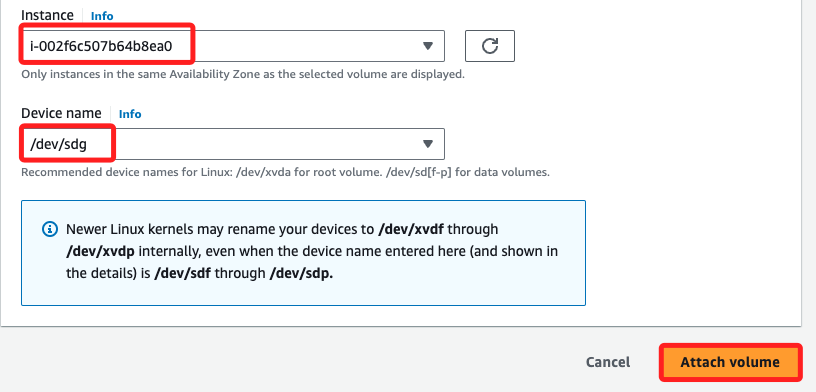
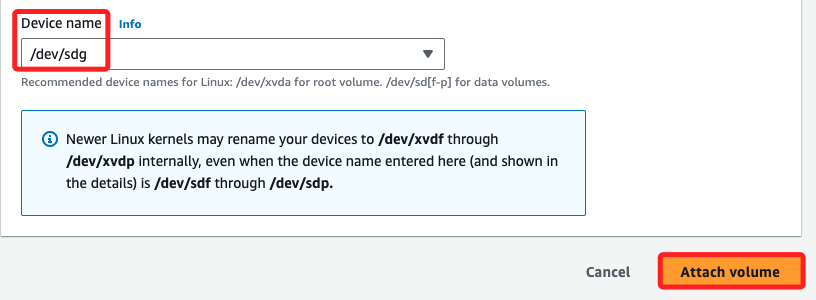
Commit on 2024-09-12 02:36:13

diff --git a/01_課程筆記/20240905/01_0905/04_EBS/01_Lab 4.md b/01_課程筆記/20240905/01_0905/04_EBS/01_Lab 4.md
@@ -249,25 +249,47 @@ _AMI（Amazon Machine Image）_
 
 <br>
 
-5. 進入 Volumns，勾選前面建立的 Volumn，狀態會顯示為 `Available`，然後在 Actions 選單中點擊 `Attach volumn` 掛載卷。
+5. 進入 Volumns，勾選前面建立的 `Restored Volumn`。
+
+    ![](images/img_35.png)
+
+<br>
+
+6. 狀態會顯示為 `Available`。
+
+    ![](images/img_36.png)
+
+<br>
+
+7. 然後在 Actions 選單中點擊 `Attach volumn` 掛載卷。
 
     ![](images/img_26.png)
 
 <br>
 
-6. 選取 Lab 提供的實例，Device name 選擇一個沒被佔用的，然後點擊 `Attach volumn`。
+8. 實例選取 `Lab`。
+
+    ![](images/img_37.png)
+
+<br>
+
+9. Device name 選擇 `/dev/sdg`，然後點擊 `Attach volume`。
 
     ![](images/img_27.png)
 
 <br>
 
-7. 回到清單中，這時全部 Volumns 都使用中。
+10. 回到清單中，這時全部 Volumns 都使用中。
 
     ![](images/img_28.png)
 
 <br>
 
 ## 掛載到 EC2 實例
+
+_回到終端機中_
+
+<br>
 
 1. 使用 EC2 Instance Connect 或 SSH 連接到您的 EC2 實例；或使用前面步驟尚未關閉的終端機，執行以下命令檢查新卷是否可用。
 
